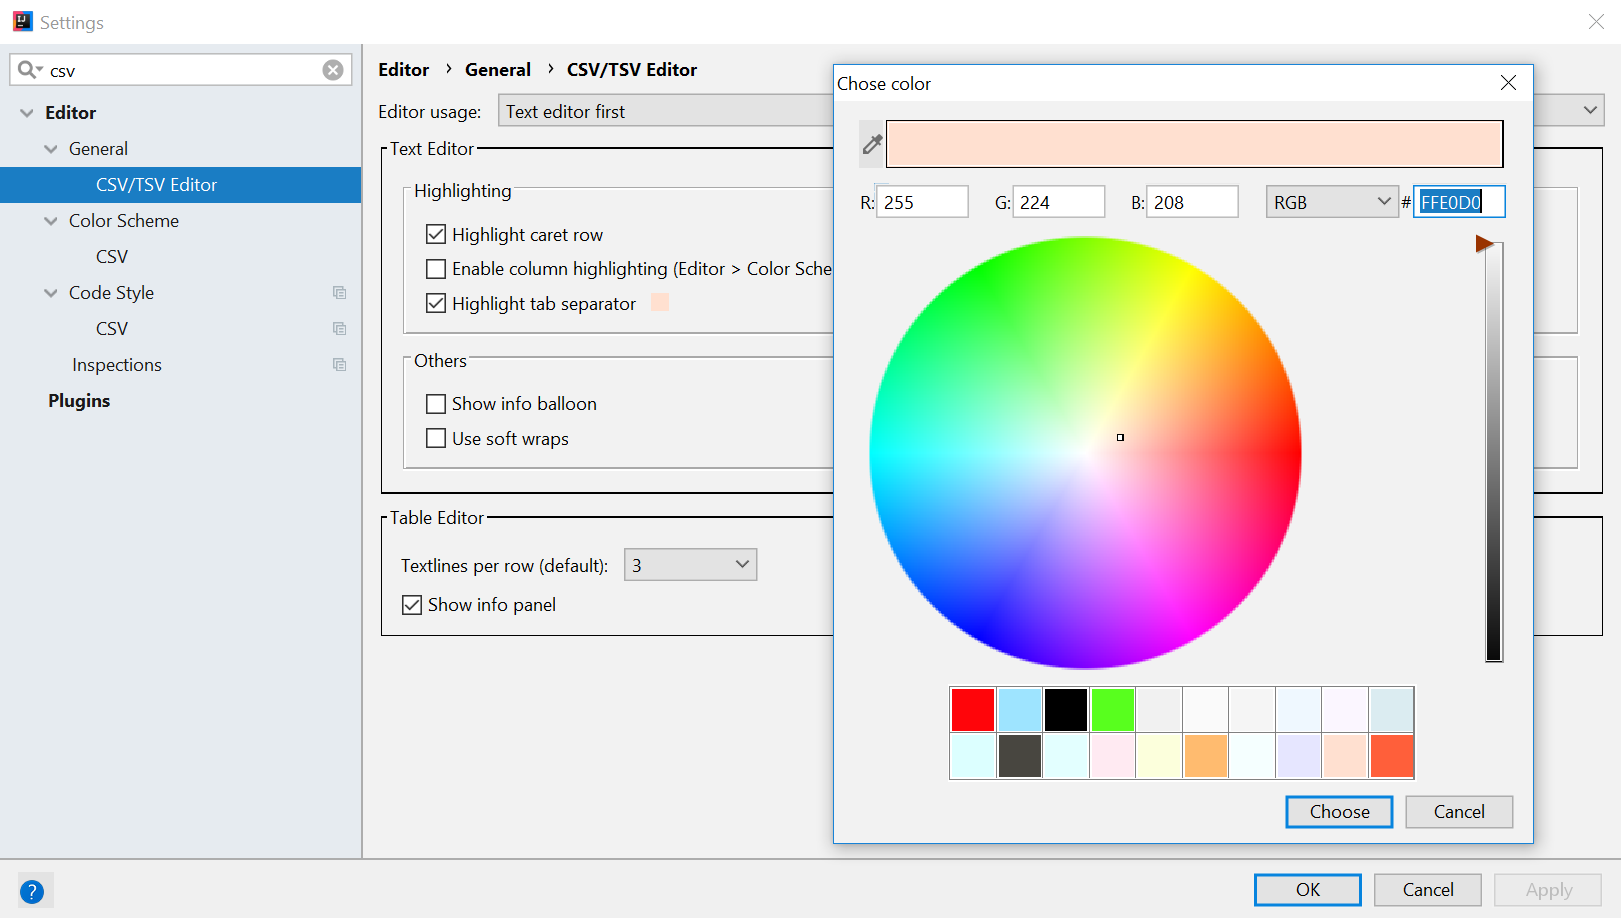
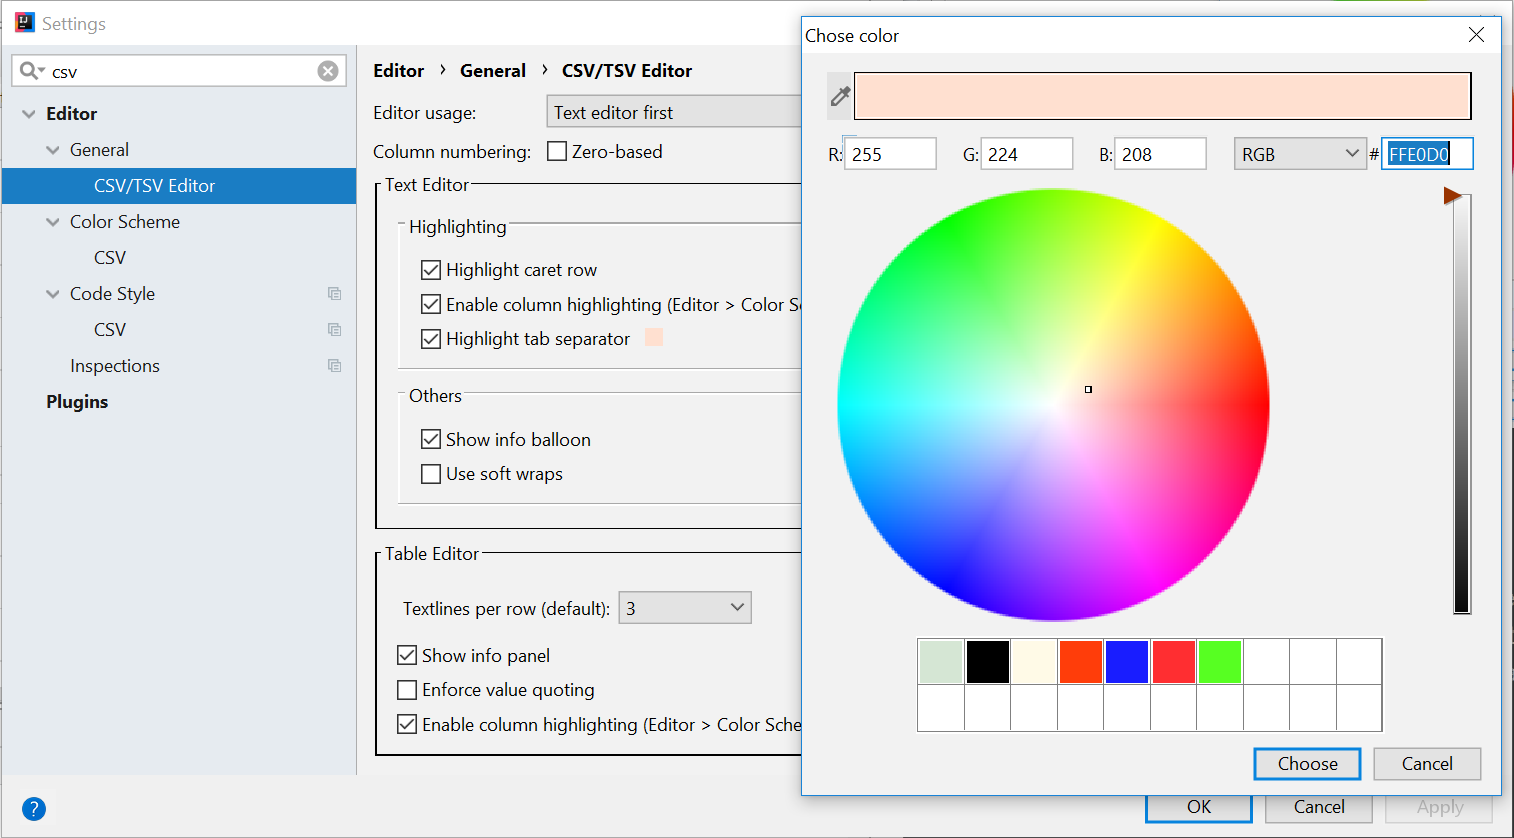
[INTERNAL] Update README incl new images

Changed region(s): [[0.0, 0.0, 1.0, 1.0]]

diff --git a/README.md b/README.md
@@ -105,9 +105,15 @@ The plugin introduces an enhanced text editor supporting custom settings - and a
 
 ![Editor settings](./docs/editorsettings.png)
 
-#### Editor Usage
+#### General
+
+##### Editor Usage
 
 The preferred editor usage can be switched between "Text Editor first", "Table Editor first" or "Text Editor only", which has an effect on the editor tab order (or whether the table editor is shown at all). A "Table Editor only" option is not available (mainly due to the table editor restrictions when handling erroneous CSV files).
+
+##### Column numbering
+
+Enable zero-based column numbering. This affects the tooltip info of the text editor as well as column numbering of the table editor.
 
 #### Text Editor
 
